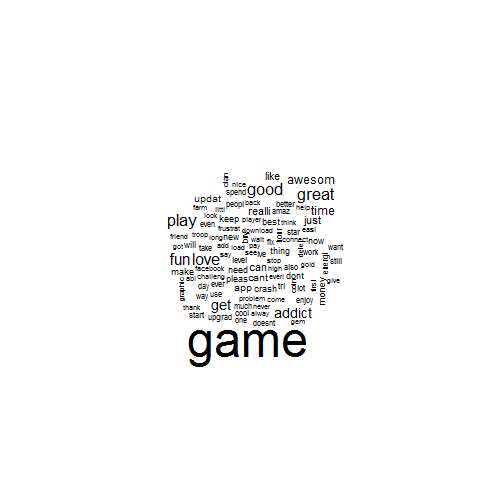
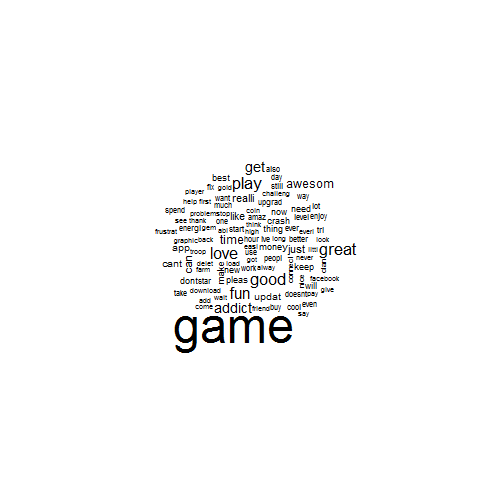
small changes

Changed region(s): [[0.2976, 0.3274, 0.7143, 0.744]]

diff --git a/text mining.html b/text mining.html
@@ -811,7 +811,7 @@ hljs.initHighlightingOnLoad();
 <div class="slideContent" >
 <ul>
 <li>First make a source object</li>
-<li>Then a corpus object </li>
+<li>Then a corpus object</li>
 </ul>
 
 <pre><code class="r">reviews &lt;- read.csv(&quot;reviews.csv&quot;, stringsAsFactors=FALSE)
@@ -862,7 +862,7 @@ inspect(corpus)
 
 </section>
 <section data-transition="linear" data-transition-speed="default">
-<h3>Cleaning - removing whitespace</h3>
+<h3>Cleaning - removing white space</h3>
 <div class="slideContent" >
 <pre><code class="r">corpus &lt;- tm_map(corpus, stripWhitespace)
 inspect(corpus)
@@ -875,7 +875,7 @@ inspect(corpus)
 
 </section>
 <section data-transition="linear" data-transition-speed="default">
-<h3>Cleaning - removing stopwords</h3>
+<h3>Cleaning - removing stop-words</h3>
 <div class="slideContent" >
 <pre><code class="r">corpus &lt;- tm_map(corpus, removeWords, stopwords(&quot;english&quot;))
 inspect(corpus)
@@ -888,7 +888,7 @@ inspect(corpus)
 
 </section>
 <section data-transition="linear" data-transition-speed="default">
-<h3>Cleaning - steming </h3>
+<h3>Cleaning - stemming </h3>
 <div class="slideContent" >
 <pre><code class="r">corpus &lt;- tm_map(corpus, stemDocument)
 inspect(corpus)
@@ -916,6 +916,25 @@ tdm &lt;- TermDocumentMatrix(corpus)
 
 </section>
 <section data-transition="linear" data-transition-speed="default">
+<h3>Removing sparse terms</h3>
+<div class="slideContent" >
+<pre><code class="r">dim(dtm)
+</code></pre>
+
+<pre><code>[1] 1000 2250
+</code></pre>
+
+<pre><code class="r">dtm_small &lt;- removeSparseTerms(dtm, 0.99)
+dim(dtm_small)
+</code></pre>
+
+<pre><code>[1] 1000  205
+</code></pre>
+
+</div>
+
+</section>
+<section data-transition="linear" data-transition-speed="default">
 <h3>Finding most frequent words</h3>
 <div class="slideContent" >
 <pre><code class="r">frequency &lt;- colSums(as.matrix(dtm))
@@ -937,48 +956,7 @@ head(frequency)
 wordcloud(names(frequency)[1:100], frequency[1:100])
 </code></pre>
 
[1 lines of base64/hex data omitted]
-
-</div>
-
-</section>
-<section data-transition="linear" data-transition-speed="default">
-<h3>Finding Correlated Words</h3>
-<div class="slideContent" >
-<pre><code class="r">findAssocs(dtm, terms = c(&#39;game&#39;, &#39;broke&#39;, &#39;cat&#39;), corlimit = 0.2)
-</code></pre>
-
-<pre><code>$game
-  play player   dont    new    say   ever   that 
-  0.29   0.22   0.21   0.21   0.21   0.20   0.20 
-
-$broke
-somepeopl   probabl   cheaper      cash     place       add 
-     1.00      0.76      0.71      0.63      0.30      0.25 
-
-$cat
-    deff downlaod    lover     epic     fall 
-     1.0      1.0      1.0      0.5      0.5 
-</code></pre>
-
-</div>
-
-</section>
-<section data-transition="linear" data-transition-speed="default">
-<h3>Removing sparse terms</h3>
-<div class="slideContent" >
-<pre><code class="r">dim(dtm)
-</code></pre>
-
-<pre><code>[1] 1000 2250
-</code></pre>
-
-<pre><code class="r">dtm_small &lt;- removeSparseTerms(dtm, 0.99)
-dim(dtm_small)
-</code></pre>
-
-<pre><code>[1] 1000  205
-</code></pre>
[1 lines of base64/hex data omitted]
 
 </div>
 
@@ -996,7 +974,7 @@ dim(dtm_small)
 <section data-transition="linear" data-transition-speed="default">
 <h3>Making a linear model </h3>
 <div class="mediaOnly slideContent" >
[2 lines of base64/hex data omitted]
 
 </div>
 
@@ -1019,22 +997,53 @@ corpus &lt;- Corpus(review_source)
 <section data-transition="linear" data-transition-speed="default">
 <h3>Top Terms for each country </h3>
 <div class="slideContent" >
-<pre><code>$au
- [1] &quot;game&quot;      &quot;great&quot;     &quot;good&quot;      &quot;love&quot;      &quot;fun&quot;      
- [6] &quot;awesome&quot;   &quot;get&quot;       &quot;can&quot;       &quot;addictive&quot; &quot;play&quot;     
+<table><thead>
+<tr>
+<th>Country</th>
+<th>Top Terms</th>
+</tr>
+</thead><tbody>
+<tr>
+<td>UK</td>
+<td>iphone, version, watch</td>
+</tr>
+<tr>
+<td>US</td>
+<td>everything, wish, back</td>
+</tr>
+<tr>
+<td>Australia</td>
+<td>gems, amount, phone</td>
+</tr>
+<tr>
+<td>New Zealand</td>
+<td>clans, troops, thanks</td>
+</tr>
+</tbody></table>
 
-$gb
- [1] &quot;game&quot;      &quot;good&quot;      &quot;great&quot;     &quot;fun&quot;       &quot;addictive&quot;
- [6] &quot;love&quot;      &quot;get&quot;       &quot;really&quot;    &quot;time&quot;      &quot;app&quot;      
+</div>
 
-$nz
- [1] &quot;game&quot;    &quot;good&quot;    &quot;love&quot;    &quot;awesome&quot; &quot;fun&quot;     &quot;great&quot;   &quot;play&quot;   
- [8] &quot;really&quot;  &quot;like&quot;    &quot;time&quot;   
+</section>
+<section data-transition="linear" data-transition-speed="default">
+<h3>Summary</h3>
+<div class="slideContent" >
+<ul>
+<li>Read in data</li>
+<li>Clean text</li>
+<li>Make document term matrix</li>
+<li>Remove sparse terms</li>
+<li>Do anything else you like</li>
+</ul>
 
-$us
- [1] &quot;game&quot;   &quot;fun&quot;    &quot;love&quot;   &quot;great&quot;  &quot;play&quot;   &quot;get&quot;    &quot;like&quot;  
- [8] &quot;just&quot;   &quot;good&quot;   &quot;really&quot;
-</code></pre>
+</div>
+
+</section>
+<section data-transition="linear" data-transition-speed="default">
+<h3>Summary</h3>
+<div class="slideContent" >
+<p>Thanks for listening!</p>
+
+<p><a href="https://github.com/mhairi">https://github.com/mhairi</a></p>
 
 </div>
 

diff --git a/text mining.md b/text mining.md
@@ -22,7 +22,7 @@ Loading in Data
 ========================================================
 
 - First make a source object
-- Then a corpus object 
+- Then a corpus object
 
 
 ```r
@@ -127,6 +127,28 @@ tdm <- TermDocumentMatrix(corpus)
 ```
 
 
+Removing sparse terms
+========================================================
+
+
+```r
+dim(dtm)
+```
+
+```
+[1] 1000 2250
+```
+
+```r
+dtm_small <- removeSparseTerms(dtm, 0.99)
+dim(dtm_small)
+```
+
+```
+[1] 1000  205
+```
+
+
 Finding most frequent words
 ========================================================
 
@@ -152,52 +174,8 @@ library(wordcloud)
 wordcloud(names(frequency)[1:100], frequency[1:100])
 ```
 
-![plot of chunk unnamed-chunk-13](text mining-figure/unnamed-chunk-13-1.png) 
+![plot of chunk unnamed-chunk-14](text mining-figure/unnamed-chunk-14-1.png) 
 
-
-Finding Correlated Words
-========================================================
-
-
-```r
-findAssocs(dtm, terms = c('game', 'broke', 'cat'), corlimit = 0.2)
-```
-
-```
-$game
-  play player   dont    new    say   ever   that 
-  0.29   0.22   0.21   0.21   0.21   0.20   0.20 
-
-$broke
-somepeopl   probabl   cheaper      cash     place       add 
-     1.00      0.76      0.71      0.63      0.30      0.25 
-
-$cat
-    deff downlaod    lover     epic     fall 
-     1.0      1.0      1.0      0.5      0.5 
-```
-
-
-Removing sparse terms
-========================================================
-
-
-```r
-dim(dtm)
-```
-
-```
-[1] 1000 2250
-```
-
-```r
-dtm_small <- removeSparseTerms(dtm, 0.99)
-dim(dtm_small)
-```
-
-```
-[1] 1000  205
-```
 
 
 Making a linear model 
@@ -212,7 +190,7 @@ model <- lm(reviews$rating ~ .,
 Making a linear model 
 ========================================================
 
-![plot of chunk unnamed-chunk-17](text mining-figure/unnamed-chunk-17-1.png) 
+![plot of chunk unnamed-chunk-16](text mining-figure/unnamed-chunk-16-1.png) 
 
 Top Terms for each country 
 ========================================================
@@ -231,24 +209,29 @@ corpus <- Corpus(review_source)
 Top Terms for each country 
 ========================================================
 
+Country     | Top Terms
+----------- | -------------
+UK          | iphone, version, watch
+US          | everything, wish, back
+Australia   | gems, amount, phone
+New Zealand | clans, troops, thanks
 
-```
-$au
- [1] "game"      "great"     "good"      "love"      "fun"      
- [6] "awesome"   "get"       "can"       "addictive" "play"     
 
-$gb
- [1] "game"      "good"      "great"     "fun"       "addictive"
- [6] "love"      "get"       "really"    "time"      "app"      
+Summary
+========================================================
 
-$nz
- [1] "game"    "good"    "love"    "awesome" "fun"     "great"   "play"   
- [8] "really"  "like"    "time"   
+- Read in data
+- Clean text
+- Make document term matrix
+- Remove sparse terms
+- Do anything else you like
 
-$us
- [1] "game"   "fun"    "love"   "great"  "play"   "get"    "like"  
- [8] "just"   "good"   "really"
-```
+Summary
+========================================================
+
+Thanks for listening!
+
+https://github.com/mhairi
 
 
 
